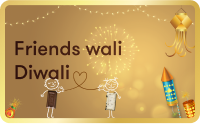
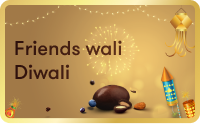
first round of changes

diff --git a/public/diwali.css b/public/diwali.css
@@ -151,6 +151,7 @@
 .diwali-btn {
     width: 90%;
     display: flex;
+    justify-content: center;
     margin: 0px auto;
     font-family:"snavely";
     border-radius: 93px;
@@ -158,6 +159,7 @@
     border: none;
 }
 .diwali-btn h3 {
+    font-size: 18px;
     margin: 0px;
     padding: 10px 20px;   
     background: linear-gradient(94deg, #DFBC66 0.3%, #F7EF8A 29.46%, #FFF4C5 59.92%, #D2AC47 94.92%, #EDC967 124.73%);
@@ -237,10 +239,18 @@
     width: 90%;
     height: 100px;
     border-radius: 10px;
-    border: 5px solid #DFBC66;
-    background: linear-gradient(0deg, rgba(15, 15, 15, 0.15) 0%, rgba(15, 15, 15, 0.15) 100%), linear-gradient(94deg, rgba(223, 188, 102, 0.10) 0.29%, rgba(210, 172, 71, 0.10) 23.42%, rgba(247, 239, 138, 0.10) 41.19%, rgba(255, 244, 197, 0.10) 68.09%, rgba(237, 201, 103, 0.10) 98.89%);
+    border: 5px solid #2D1415;
+    background: linear-gradient(0deg, rgba(66, 24, 18, 0.40) 0%, rgba(66, 24, 18, 0.40) 100%), linear-gradient(0deg, rgba(15, 15, 15, 0.15) 0%, rgba(15, 15, 15, 0.15) 100%), linear-gradient(94deg, rgba(223, 188, 102, 0.10) 0.29%, rgba(210, 172, 71, 0.10) 23.42%, rgba(247, 239, 138, 0.10) 41.19%, rgba(255, 244, 197, 0.10) 68.09%, rgba(237, 201, 103, 0.10) 98.89%);
 }
-.textarea-messages textarea::placeholder,
+.textarea-messages textarea {
+    color: #D2AC47;
+}
+.textarea-messages textarea::placeholder {
+    background: linear-gradient(94deg, #DFBC66 0.3%, #F7EF8A 29.46%, #FFF4C5 59.92%, #D2AC47 94.92%, #EDC967 124.73%);
+    background-clip: text;
+    -webkit-background-clip: text;
+    -webkit-text-fill-color: transparent;
+}
 .userName {
     font-family: "brandon printed";
     color: #452012!important;

diff --git a/frontend-js/main.js b/frontend-js/main.js
@@ -75,6 +75,11 @@ sendgift.onclick = () => {
   // inputElement.focus();
   bgaudio.play()
 
+  var diwaliDiya = document.querySelectorAll(".diwali-diya")
+    for(let i=0; i < diwaliDiya.length; i++) {
+      diwaliDiya[i].style.display = "none"
+    }
+
   var diwaliRocket = document.querySelectorAll(".diwali-rocket")
   for(let i =0; i < diwaliRocket.length; i++) {
     diwaliRocket[i].style.display = "none"
@@ -1841,6 +1846,8 @@ function adjustMessageNoteFriendWali() {
   document.querySelector(".message-wrapper").classList.remove("family-bg")
   document.querySelector(".message-wrapper").classList.add("friend-bg")
 
+  document.querySelector(".diwali-msg-h4").innerHTML = "<span>F</span>estive <span>M</span>oments with <span>F</span>riends"
+
   var polaroidFrame = document.querySelector(".polaroid-frame")
   polaroidFrame.classList.add("friend-bg-polaroid")
   document.querySelector(".brand-wish").children[0].src = "/images/friend-brand-wishes.png"
@@ -1877,6 +1884,7 @@ function adjustMessageNoteFamilyWali() {
     document.querySelector(".vertical-bar").children[0].style.background = "#DFBC66"
 
     document.querySelector(".diwali-msg-h4").classList.add("family-gold-text")
+    document.querySelector(".diwali-msg-h4").innerHTML = `<span>F</span>estive <span>M</span>oments with <span>F</span>amily!`
     document.querySelector(".message-header").classList.add("family-gold-text")
     document.querySelector("#completenote").classList.add("family-gold-text")
 
